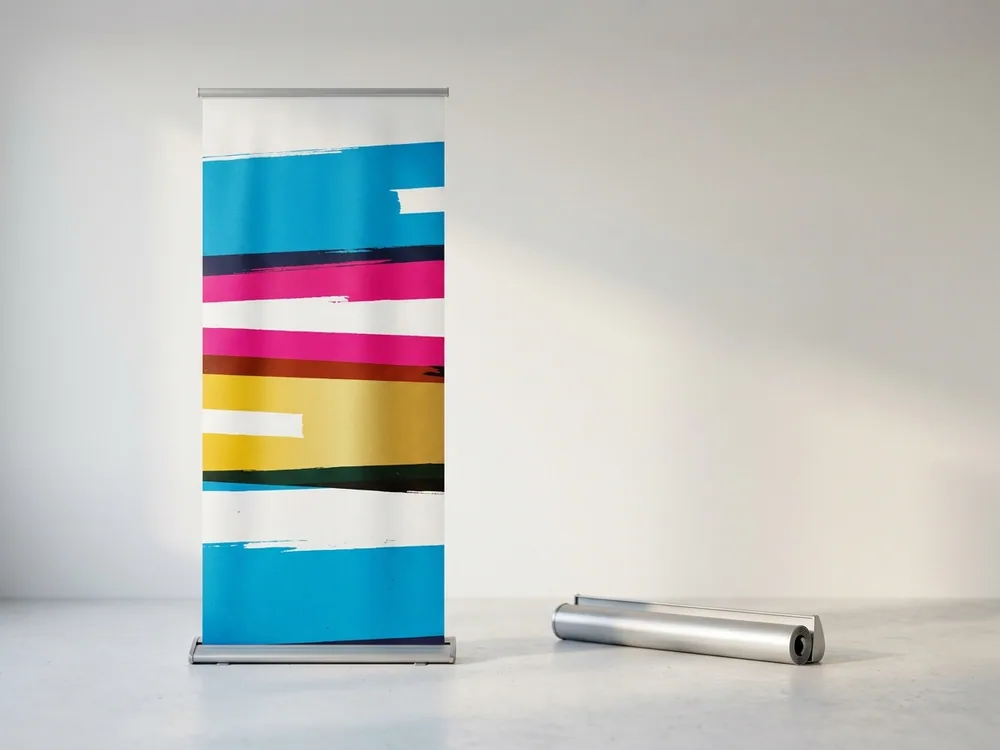
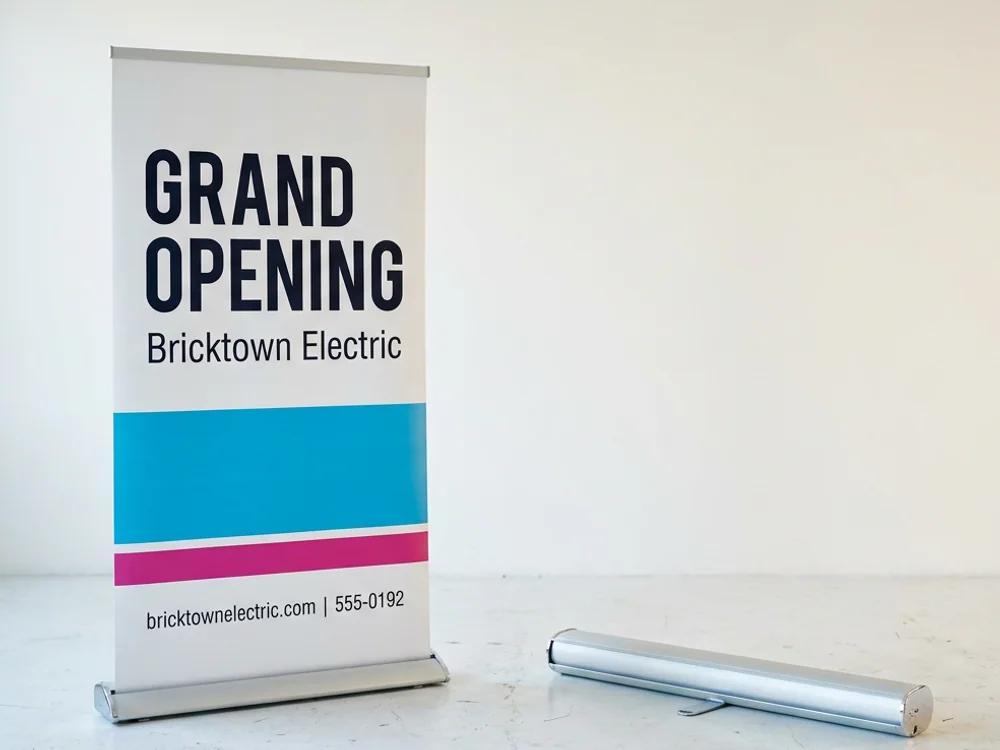
Re-shoot the product photography with real designs, rebuild the portfolio page
Photography: the previous shoot printed abstract colour blocks on every piece,
which read as mockup filler rather than print work. Re-shot all six product
images with genuine designs on them - business name, logo mark, secondary line,
contact detail - for four fictional small businesses (Kestrel Coffee Roasters,
Harlow Dental, Rowan & Fife, Bricktown Electric, Marisol Landscape, Fairway
Dental). Same studio art direction, so the set still reads as one shoot.

The hero needed a second pass: the first attempt fanned the cards rotated, so
the branding ran bottom-to-top. Re-prompted with an explicit orientation
constraint and the type now reads left to right.

Banner shot re-cropped tighter around the stand and its cassette, and the wide
product tiles moved from 16:9 to 16:10 - the harder crop was clipping the top
off the tall rigid-sign panel.

Portfolio page:
- Fixes the real bug. Every thumbnail was forced into `aspect-square` with
  `object-cover`, so nothing fit its frame: business cards are 7:4 landscape,
  roll-up banners roughly 1:2.5 portrait, rigid signs square. Each one was
  cropped, most losing text off both sides. Thumbnails now sit in a square
  mounted-proof frame with `object-contain`, at their own true proportions,
  with a soft drop shadow.
- The image is absolutely positioned inside the frame rather than being a flex
  child. As a flex child a tall banner thumbnail resolved its own height first
  and stretched the tile, which made the rows ragged.
[…]

diff --git a/app/(public)/portfolio/page.tsx b/app/(public)/portfolio/page.tsx
@@ -1,8 +1,8 @@
 import type { Metadata } from "next";
 import Link from "next/link";
 import { Button } from "@/components/ui/button";
-import { ArrowRight } from "lucide-react";
 import { db } from "@/lib/prisma";
+import { Reveal } from "@/components/motion/Reveal";
 import { PortfolioGrid, type PortfolioSample } from "@/components/portfolio/portfolio-grid";
 
 export const metadata: Metadata = {
@@ -27,60 +27,134 @@ const CATEGORY_LABEL: Record<string, string> = {
 
 export const revalidate = 3600;
 
+type Row = { slug: string; title: string; thumbnailFront: string | null; product: string; industry: string | null };
+
+/** "real-estate" -> "Real Estate" */
+function industryLabel(slug: string | null): string | null {
+  if (!slug) return null;
+  return slug
+    .split(/[-_]/)
+    .map((word) => word.charAt(0).toUpperCase() + word.slice(1))
+    .join(" ");
+}
+
+/**
+ * Round-robin one template per industry before taking a second from any industry. `sortOrder` alone
+ * front-loads whichever industry happens to have the lowest values, which is why the page used to
+ * read as an all-real-estate gallery.
+ */
+function spreadByIndustry(rows: Row[], limit: number): Row[] {
+  const byIndustry = new Map<string, Row[]>();
+  for (const row of rows) {
+    const key = row.industry ?? "other";
+    const bucket = byIndustry.get(key);
+    if (bucket) bucket.push(row);
+    else byIndustry.set(key, [row]);
+  }
+
+  const buckets = [...byIndustry.values()];
+  const out: Row[] = [];
+  for (let pass = 0; out.length < limit; pass += 1) {
+    const before = out.length;
+    for (const bucket of buckets) {
+      if (out.length >= limit) break;
+      if (bucket[pass]) out.push(bucket[pass]);
+    }
+    if (out.length === before) break; // every bucket exhausted
+  }
+  return out;
+}
+
 export default async function PortfolioPage() {
   // One query per product rather than a single flat `take` — Postgres enums sort by declaration
   // order, not alphabetically, and Business Cards alone has far more featured rows than the other
   // three products combined, so a single ordered-and-capped query silently returned zero
   // postcards/banners/rigid signs.
   const perProduct = await Promise.all(
-    (["BUSINESS_CARD", "POSTCARD", "BANNER", "RIGID_SIGN"] as const).map((product) =>
-      db.cardTemplate.findMany({
+    (["BUSINESS_CARD", "POSTCARD", "BANNER", "RIGID_SIGN"] as const).map(async (product) => {
+      const rows = await db.cardTemplate.findMany({
         where: { featured: true, active: true, product },
         orderBy: { sortOrder: "asc" },
         select: { slug: true, title: true, thumbnailFront: true, product: true, industry: true },
-        take: 10,
-      })
-    )
+        take: 40,
+      });
+      return spreadByIndustry(rows, 12);
+    })
   );
+
   // Interleave rather than concatenate so the default "All" view alternates products instead of
-  // showing 10 business cards in a row before a single postcard appears.
+  // showing 12 business cards in a row before a single postcard appears.
   const maxLen = Math.max(...perProduct.map((p) => p.length));
-  const templates = Array.from({ length: maxLen }, (_, i) => perProduct.map((p) => p[i])).flat().filter((t) => t != null);
+  const templates = Array.from({ length: maxLen }, (_, i) => perProduct.map((p) => p[i]))
+    .flat()
+    .filter((t) => t != null);
 
   const samples: PortfolioSample[] = templates
     .filter((t) => t.thumbnailFront)
     .map((t) => ({
       slug: t.slug,
-      title: t.title,
+      // Template titles are stored as "Real Estate: Bottom Band". The industry moves down to the
+      // meta line so a grid of same-industry templates doesn't read as the same word 12 times.
+      title: t.title.includes(": ") ? t.title.slice(t.title.indexOf(": ") + 2) : t.title,
       thumbnail: t.thumbnailFront!,
       category: CATEGORY_LABEL[t.product] ?? t.product,
+      industry: industryLabel(t.industry),
       href: `/services/${ROUTE_SEGMENT[t.product] ?? "business-cards"}/design/t-${t.slug}`,
     }));
 
   return (
-    <div>
-      <div className="section-pad-tight bg-kc-bg">
-        <div className="container-tight max-w-2xl">
-          <h1 className="mb-3 text-4xl font-black tracking-tight text-kc-dark sm:text-5xl">Design examples</h1>
-          <p className="text-lg text-kc-muted">
-            Real designs pulled from our template library. Pick one to customize as your own, or we will build something new for your business.
-          </p>
+    <>
+      <section className="bg-kc-bg">
+        <div className="reg-bar" />
+        <div className="container-tight px-4 pb-12 pt-16 sm:px-6 lg:px-8 lg:pb-16 lg:pt-24">
+          <Reveal className="max-w-2xl">
+            <h1 className="display-tight text-[2.75rem] text-kc-dark sm:text-6xl">Design examples</h1>
+            <p className="mt-5 text-[17px] leading-relaxed text-kc-dark/65">
+              Real designs pulled from our template library. Pick one to customize as your own, or
+              we will build something new for your business.
+            </p>
+          </Reveal>
         </div>
-      </div>
+      </section>
 
-      <div className="container-tight px-4 py-12 sm:px-6 lg:px-8">
-        <PortfolioGrid samples={samples} />
+      <section className="band-tight bg-kc-paper">
+        <div className="container-tight">
+          <PortfolioGrid samples={samples} />
+        </div>
+      </section>
 
-        <div className="mt-14 flex flex-col items-start justify-between gap-6 rounded-md border border-kc-border bg-kc-violet-tint p-8 sm:flex-row sm:items-center">
-          <div>
-            <h2 className="mb-1.5 text-xl font-bold text-kc-dark">Want to see more, or something custom?</h2>
-            <p className="text-sm text-kc-muted">Ask and we will share examples relevant to your industry.</p>
+      <section className="bg-kc-bg">
+        <div className="container-tight px-4 py-16 sm:px-6 lg:px-8 lg:py-20">
+          <div className="flex flex-col items-start justify-between gap-7 border-t border-kc-dark/12 pt-10 sm:flex-row sm:items-end">
+            <div>
+              <h2 className="display-tight text-2xl text-kc-dark sm:text-[1.9rem]">
+                Want something custom?
+              </h2>
+              <p className="mt-3 max-w-md text-[15px] leading-relaxed text-kc-dark/60">
+                Ask and we will share examples relevant to your industry, or start from a blank file
+                with a designer.
+              </p>
+            </div>
+            <div className="flex shrink-0 flex-col gap-3 sm:flex-row">
+              <Button
+                asChild
+                size="lg"
+                className="edge h-12 bg-kc-coral px-7 text-[15px] font-semibold text-white transition-colors hover:bg-kc-magenta-deep"
+              >
+                <Link href="/contact">Contact us</Link>
+              </Button>
+              <Button
+                asChild
+                size="lg"
+                variant="outline"
+                className="edge h-12 border border-kc-dark/20 bg-transparent px-7 text-[15px] font-semibold text-kc-dark transition-colors hover:border-kc-dark/40 hover:bg-kc-dark/5"
+              >
+                <Link href="/services/business-cards/design">Start designing</Link>
+              </Button>
+            </div>
           </div>
-          <Button asChild className="shrink-0 rounded-md bg-kc-coral text-white hover:bg-kc-coral/90">
-            <Link href="/contact">Request Samples <ArrowRight className="ml-2 h-4 w-4" /></Link>
-          </Button>
         </div>
-      </div>
-    </div>
+      </section>
+    </>
   );
 }

diff --git a/components/portfolio/portfolio-grid.tsx b/components/portfolio/portfolio-grid.tsx
@@ -1,7 +1,8 @@
 "use client";
 
-import { useState } from "react";
+import { useMemo, useState } from "react";
 import Link from "next/link";
+import { motion, useReducedMotion, type Variants } from "framer-motion";
 import { cn } from "@/lib/utils";
 
 export interface PortfolioSample {
@@ -9,61 +10,126 @@ export interface PortfolioSample {
   title: string;
   thumbnail: string;
   category: string;
+  /** Human-readable industry, e.g. "Real Estate". Shown next to the category, not in the title. */
+  industry: string | null;
   href: string;
 }
 
-const CATEGORIES = ["All", "Business Cards", "Postcards", "Banners", "Rigid Signs"];
+const CATEGORIES = ["All", "Business Cards", "Postcards", "Banners", "Rigid Signs"] as const;
+
+const EASE = [0.16, 1, 0.3, 1] as const;
+
+const group: Variants = { hidden: {}, shown: { transition: { staggerChildren: 0.05 } } };
+const item: Variants = {
+  hidden: { opacity: 0, y: 18 },
+  shown: { opacity: 1, y: 0, transition: { duration: 0.5, ease: EASE } },
+};
 
 export function PortfolioGrid({ samples }: { samples: PortfolioSample[] }) {
-  const [active, setActive] = useState("All");
+  const [active, setActive] = useState<string>("All");
+  const reduce = useReducedMotion();
+
+  const counts = useMemo(() => {
+    const map = new Map<string, number>([["All", samples.length]]);
+    for (const s of samples) map.set(s.category, (map.get(s.category) ?? 0) + 1);
+    return map;
+  }, [samples]);
+
   const visible = active === "All" ? samples : samples.filter((s) => s.category === active);
 
   return (
     <>
-      <div className="mb-8 flex flex-wrap gap-2">
-        {CATEGORIES.map((cat) => (
-          <button
-            key={cat}
-            type="button"
-            onClick={() => setActive(cat)}
-            aria-pressed={active === cat}
-            className={cn(
-              "rounded-full border px-4 py-1.5 text-sm transition-colors",
-              active === cat
-                ? "border-kc-teal bg-kc-teal text-white"
-                : "border-kc-border bg-white text-kc-muted hover:border-kc-teal hover:text-kc-teal"
-            )}
-          >
-            {cat}
-          </button>
-        ))}
+      {/* Segmented filter. Square trim to match the page's 2px shape system. */}
+      <div
+        role="group"
+        aria-label="Filter examples by product"
+        className="mb-10 flex flex-wrap gap-2"
+      >
+        {CATEGORIES.map((cat) => {
+          const count = counts.get(cat) ?? 0;
+          const selected = active === cat;
+          return (
+            <button
+              key={cat}
+              type="button"
+              onClick={() => setActive(cat)}
+              aria-pressed={selected}
+              disabled={count === 0}
+              className={cn(
+                "edge border px-4 py-2 text-[13.5px] font-medium transition-colors disabled:cursor-not-allowed disabled:opacity-40",
+                selected
+                  ? "border-kc-coral bg-kc-coral text-white"
+                  : "border-kc-dark/15 bg-white text-kc-dark/70 hover:border-kc-dark/40 hover:text-kc-dark"
+              )}
+            >
+              {cat}
+              <span
+                className={cn(
+                  "ml-2 font-mono text-[11.5px]",
+                  selected ? "text-white/70" : "text-kc-dark/40"
+                )}
+              >
+                {count}
+              </span>
+            </button>
+          );
+        })}
       </div>
 
       {visible.length === 0 ? (
-        <p className="text-sm text-kc-muted">No examples in this category yet.</p>
-      ) : (
-        <div className="grid grid-cols-1 gap-5 sm:grid-cols-2 lg:grid-cols-4">
-          {visible.map((item) => (
-            <Link
-              key={item.slug}
-              href={item.href}
-              className="group overflow-hidden rounded-md border border-kc-border bg-white transition-colors hover:border-kc-teal/40"
-            >
-              <div className="aspect-square overflow-hidden bg-kc-bg">
-                <img
-                  src={item.thumbnail}
-                  alt={item.title}
-                  className="h-full w-full object-cover transition-transform duration-300 group-hover:scale-[1.03]"
-                  loading="lazy"
-                />
-              </div>
-              <div className="p-4">
-                <h3 className="mb-1 text-sm font-bold text-kc-dark group-hover:text-kc-teal">{item.title}</h3>
-                <p className="text-xs text-kc-muted">{item.category}</p>
-              </div>
-            </Link>
-          ))}
+        <div className="edge border border-dashed border-kc-dark/20 bg-white px-6 py-16 text-center">
+          <p className="text-[15px] text-kc-dark/60">
+            No {active.toLowerCase()} examples are published yet.
+          </p>
+          <Link
+            href="/contact"
+            className="mt-3 inline-block text-[14px] font-semibold text-kc-magenta-deep hover:text-kc-dark"
+          >
+            Ask us for samples
+          </Link>
         </div>
+      ) : (
+        <motion.ul
+          // Re-keying on `active` replays the stagger, which reads as feedback that the filter applied.
+          key={active}
+          variants={group}
+          initial={reduce ? false : "hidden"}
+          animate="shown"
+          className="grid grid-cols-1 gap-4 sm:grid-cols-2 lg:grid-cols-3 xl:grid-cols-4"
+        >
+          {visible.map((sample) => (
+            <motion.li key={sample.slug} variants={item}>
+              <Link
+                href={sample.href}
+                className="edge group flex h-full flex-col overflow-hidden border border-kc-dark/12 bg-white transition-colors hover:border-kc-dark/30"
+              >
+                {/* Mounted-proof frame. The square mount is the neutral one: business cards are 7:4
+                    landscape, roll-up banners are roughly 1:2.5 portrait, rigid signs are square. The
+                    old aspect-square + object-cover cropped every one of them.
+
+                    The image is absolutely positioned so the frame's ratio is authoritative — with a
+                    flex child, a tall banner thumbnail resolves its own height first and stretches
+                    the box, which is what made the rows ragged. */}
+                <div className="relative aspect-square bg-kc-paper">
+                  <img
+                    src={sample.thumbnail}
+                    alt={sample.title}
+                    loading="lazy"
+                    className="absolute inset-0 h-full w-full object-contain p-6 drop-shadow-[0_6px_14px_rgba(18,17,16,0.28)] transition-transform duration-500 ease-out group-hover:scale-[1.04]"
+                  />
+                </div>
+                <div className="border-t border-kc-dark/10 p-4">
+                  <h3 className="line-clamp-2 min-h-[2.6em] text-[14px] font-semibold leading-snug text-kc-dark transition-colors group-hover:text-kc-magenta-deep">
+                    {sample.title}
+                  </h3>
+                  <p className="mt-1 text-[12.5px] text-kc-dark/50">
+                    {sample.industry ? `${sample.industry} · ${sample.category}` : sample.category}
+                  </p>
+                </div>
+              </Link>
+            </motion.li>
+          ))}
+        </motion.ul>
       )}
     </>
   );

diff --git a/app/(public)/page.tsx b/app/(public)/page.tsx
@@ -418,7 +418,9 @@ function ProductTile({ service, wide = false }: { service: Service; wide?: boole
         href={service.href}
         aria-label={service.name}
         className={`relative block overflow-hidden bg-kc-paper ${
-          wide ? "aspect-[4/3] lg:aspect-[16/9]" : "aspect-[4/3]"
+          // 16:9 clipped the tops off the taller pieces in the rigid-sign shot; 16:10 keeps the
+          // letterbox rhythm without cutting into the subject.
+          wide ? "aspect-[4/3] lg:aspect-[16/10]" : "aspect-[4/3]"
         }`}
       >
         <Image
